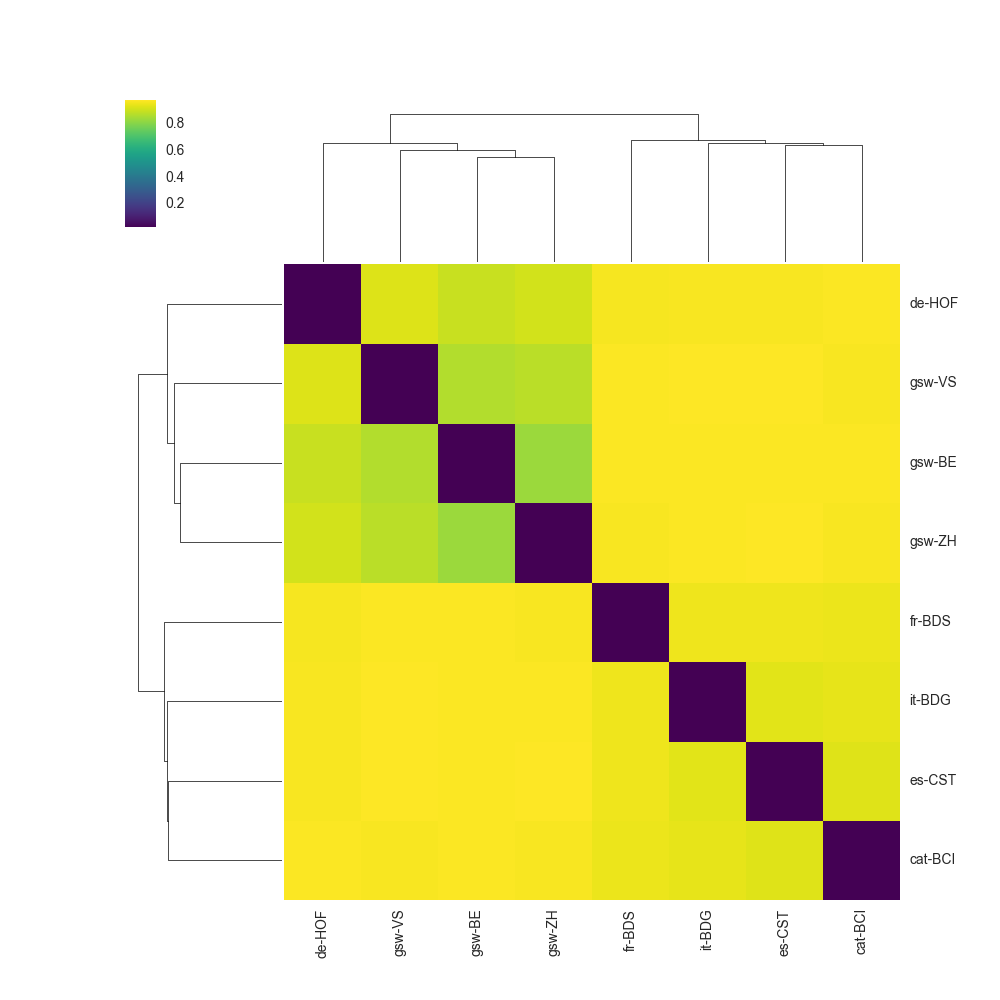
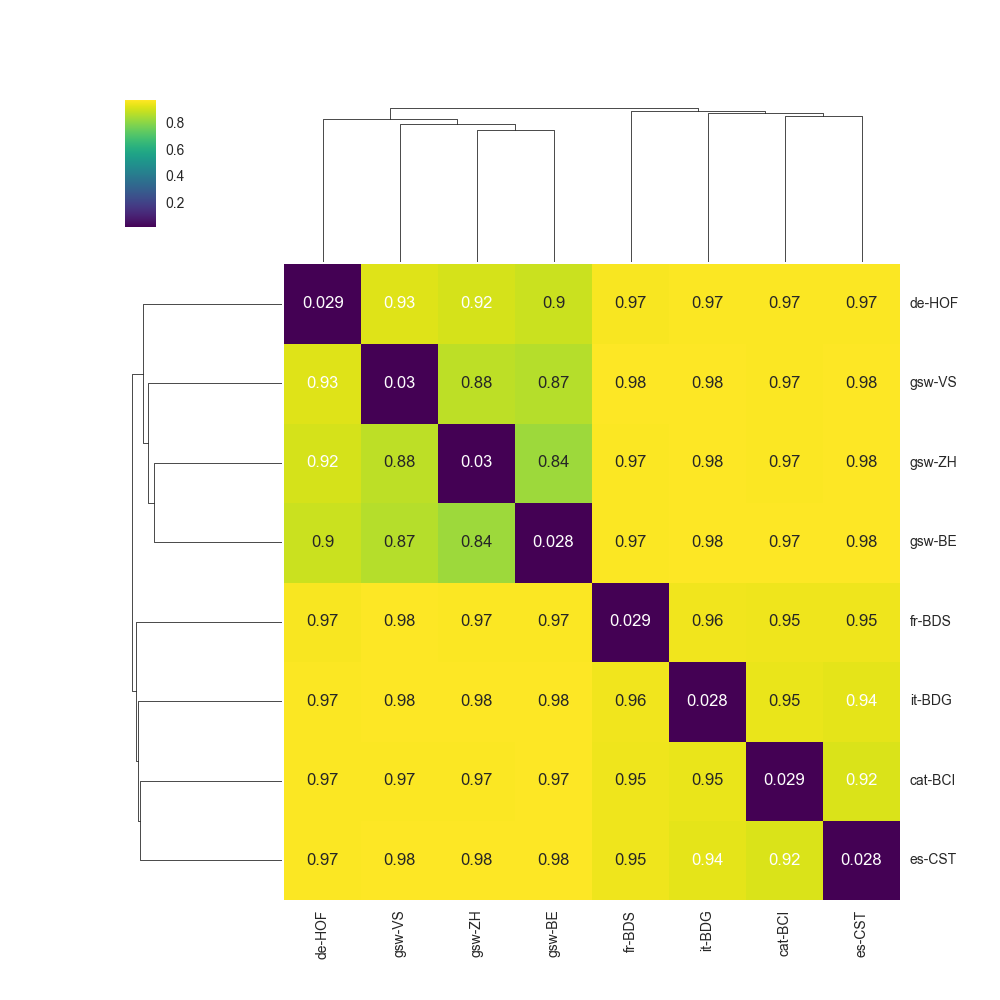
Annotate cluster map with numerical distances

diff --git a/cluster.py b/cluster.py
@@ -62,7 +62,7 @@ if __name__ == '__main__':
 
     if selected_texts:
         dm = dist_matrix(selected_texts, zipstance)
-        hm = sns.clustermap(dm, standard_scale=None, method='ward', cmap=viridis)
+        hm = sns.clustermap(dm, standard_scale=None, method='single', cmap=viridis, annot=True)
         plt.setp(hm.ax_heatmap.xaxis.get_majorticklabels(), rotation='vertical')
         plt.setp(hm.ax_heatmap.yaxis.get_majorticklabels(), rotation='horizontal')
         plt.savefig('map.png')
